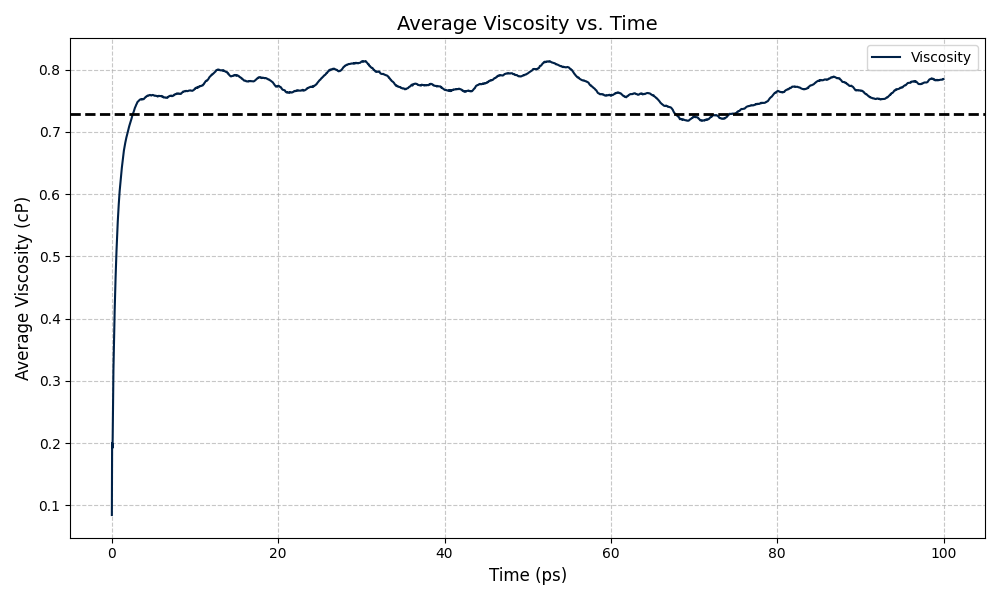
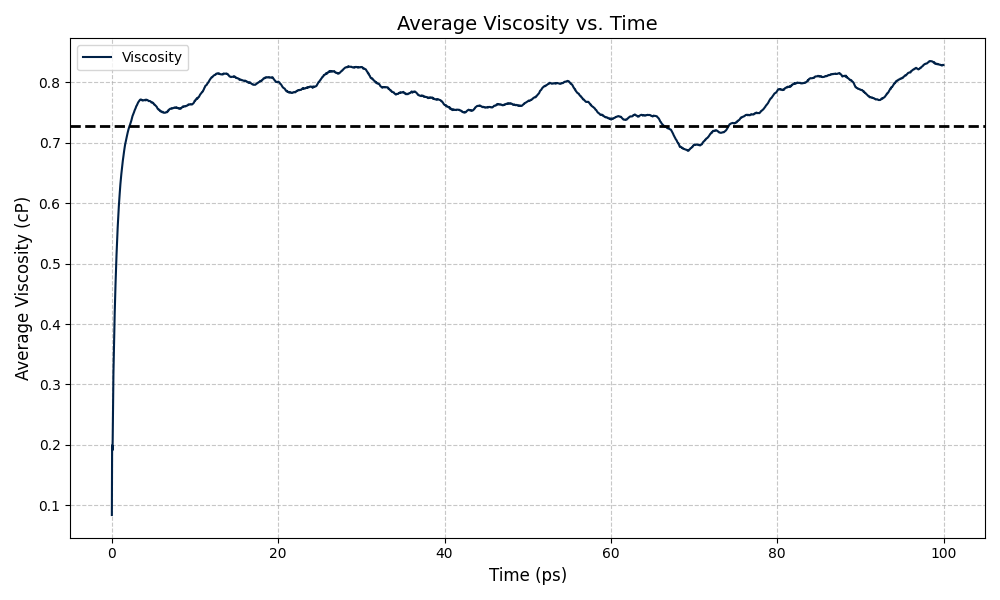
minor modification

diff --git a/NVE_Simulation_avg_density/compute_cpp/compute_viscosity.cpp b/NVE_Simulation_avg_density/compute_cpp/compute_viscosity.cpp
@@ -311,6 +311,7 @@ int main()
     auto start_time = getTime();
 
     std::vector<StressData> stressData = readStressFile(filename);
+    stressData.erase(stressData.begin(), stressData.begin() + 2000000);
 
     // Print only first 5 entries to avoid flooding console
     // if (!stressData.empty())
